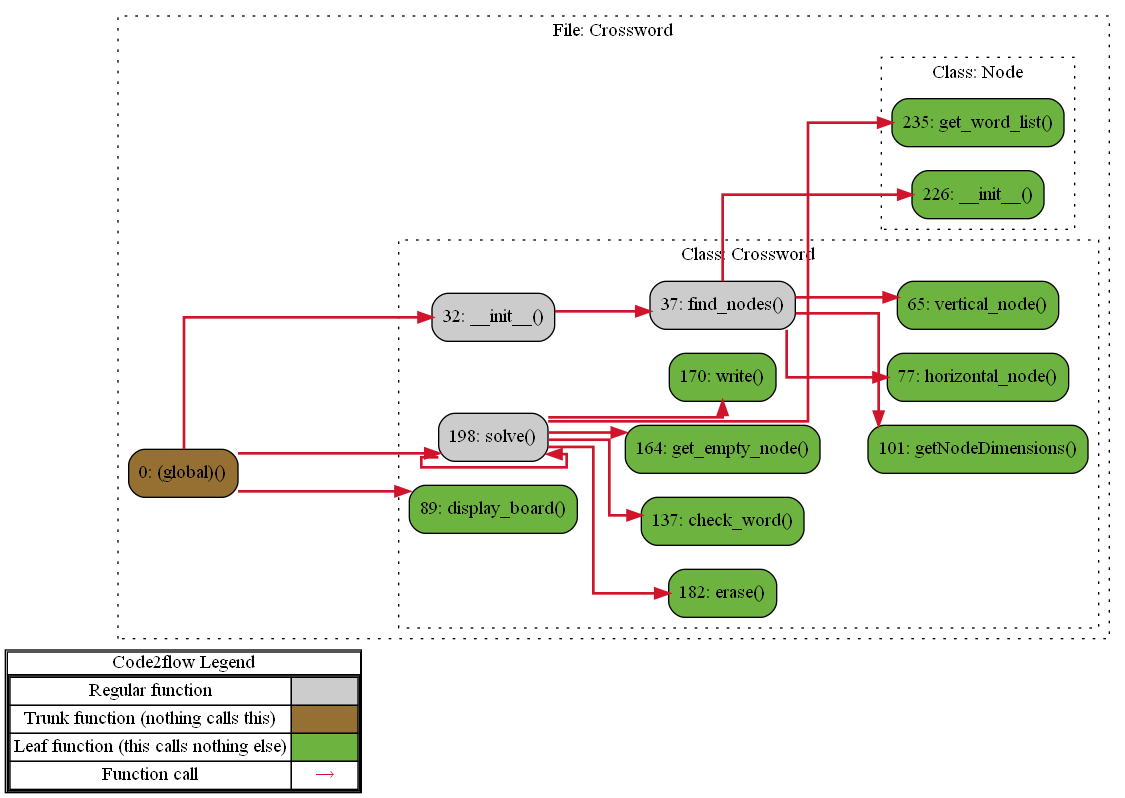
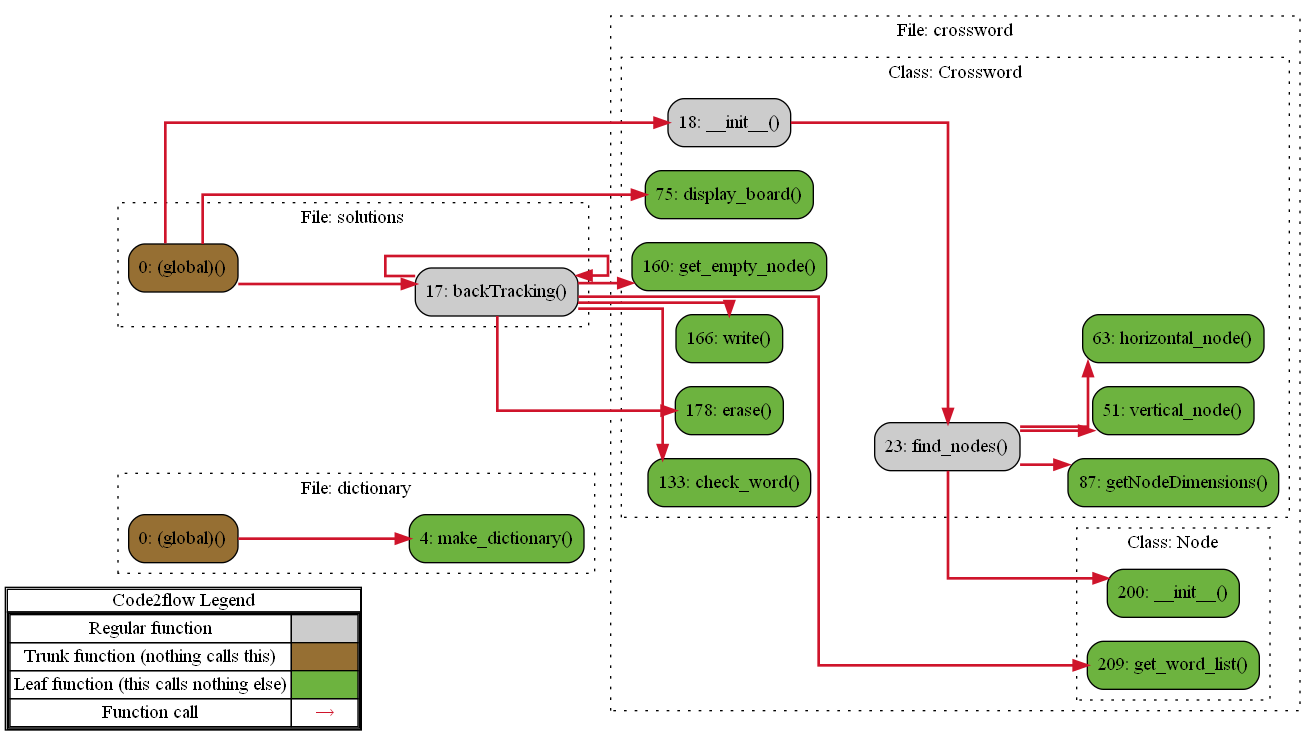
General Improvements

diff --git a/Crossword-Solver/crossword.py b/Crossword-Solver/crossword.py
@@ -1,26 +1,20 @@
 import json
-from numba import jit
 from itertools import chain
-import time
-
-
-puzzle = [
-    ['a', ' ', ' ', ' ', ' ', ' ', 'p', ' ', ' '],
-    ['_', ' ', ' ', ' ', ' ', ' ', '_', ' ', ' '],
-    ['_', ' ', ' ', ' ', ' ', ' ', '_', ' ', ' '],
-    ['_', '_', 'n', '_', '_', '_', '_', '_', '_'],
-    ['_', ' ', '_', ' ', ' ', ' ', '_', ' ', ' '],
-    ['_', ' ', '_', ' ', 't', ' ', '_', ' ', ' '],
-    ['_', ' ', '_', '_', '_', '_', '_', '_', ' '],
-    [' ', ' ', '_', ' ', '_', ' ', ' ', ' ', ' '],
-    [' ', ' ', '_', ' ', '_', ' ', ' ', ' ', ' '],
-]
 
 with open('dictionary.json') as file:
     dictionary = json.load(file)
 
+"""
+    This holds the basic Crossword and Node classes that the algorithms will use.
+"""
+
 
 class Crossword:
+    """
+    Takes in a 2D list of letters, then automatically detects the across and down "nodes".
+    Also has methods for erasing and writing from each one of these nodes, checking if a word fits, etc.
+    """
+
     def __init__(self, board):
         self.board = board
         self.nodes = []
@@ -197,31 +191,9 @@ class Crossword:
                 column += 1
         node.is_empty = True
 
-    def solve(self):
-        node: Node = self.get_empty_node()
-        if not node:
-            return True
-        # print(node, end='\n')
-
-        row, column = node.position
-        char = self.board[row][column]
-        word_list = node.get_word_list(char)
-
-        for word in word_list:
-            # print(word, end='\r')
-            if self.check_word(node, word):
-                self.write(node, word)
-                # self.display_board()
-                if self.solve():
-                    return True
-                self.erase(node)
-        return False
-
     def show_nodes(self):
         for node in self.nodes:
             print(node, end='\n\n')
-
-    func = jit(solve)
 
 
 class Node:
@@ -245,14 +217,3 @@ class Node:
 
     def __len__(self):
         return self.length
-
-
-if __name__ == '__main__':
-    cross = Crossword(puzzle)
-    cross.display_board()
-    for n in cross.nodes:
-        print(n)
-    a = time.perf_counter()
-    cross.solve()
-    print('\nIt took ', time.perf_counter() - a, ' seconds to solve this!\n')
-    cross.display_board()

diff --git a/Crossword-Solver/solutions.py b/Crossword-Solver/solutions.py
@@ -1,0 +1,53 @@
+from crossword import Crossword, Node
+import time
+
+puzzle = [
+    ['a', ' ', ' ', ' ', ' ', ' ', 'p', ' ', ' '],
+    ['_', ' ', ' ', ' ', ' ', ' ', '_', ' ', ' '],
+    ['_', ' ', ' ', ' ', ' ', ' ', '_', ' ', ' '],
+    ['_', '_', 'n', '_', '_', '_', '_', '_', '_'],
+    ['_', ' ', '_', ' ', ' ', ' ', '_', ' ', ' '],
+    ['_', ' ', '_', ' ', 't', ' ', '_', ' ', ' '],
+    ['_', ' ', '_', '_', '_', '_', '_', '_', ' '],
+    [' ', ' ', '_', ' ', '_', ' ', ' ', ' ', ' '],
+    [' ', ' ', '_', ' ', '_', ' ', ' ', ' ', ' '],
+]
+
+
+def backTracking(crossword: Crossword):
+    """
+    Implements the backtracking algorithm
+    :param crossword: The crossword
+    :return: True if it solves the puzzle, alters the crossword.
+    """
+
+    node: Node = crossword.get_empty_node()
+    if not node:
+        return True
+    # print(node, end='\n')
+
+    row, column = node.position
+    char = crossword.board[row][column]
+    word_list = node.get_word_list(char)
+
+    for word in word_list:
+        # print(word, end='\r')
+        if crossword.check_word(node, word):
+            crossword.write(node, word)
+            # crossword.display_board()
+            if backTracking(crossword):
+                return True
+            crossword.erase(node)
+    return False
+
+
+if __name__ == '__main__':
+    cross = Crossword(puzzle)
+    cross.display_board()
+    print("Nodes: \n")
+    for n in cross.nodes:
+        print(n)
+    a = time.perf_counter()
+    backTracking(crossword=cross)
+    print('\nIt took ', time.perf_counter() - a, ' seconds to solve this!\n')
+    cross.display_board()
